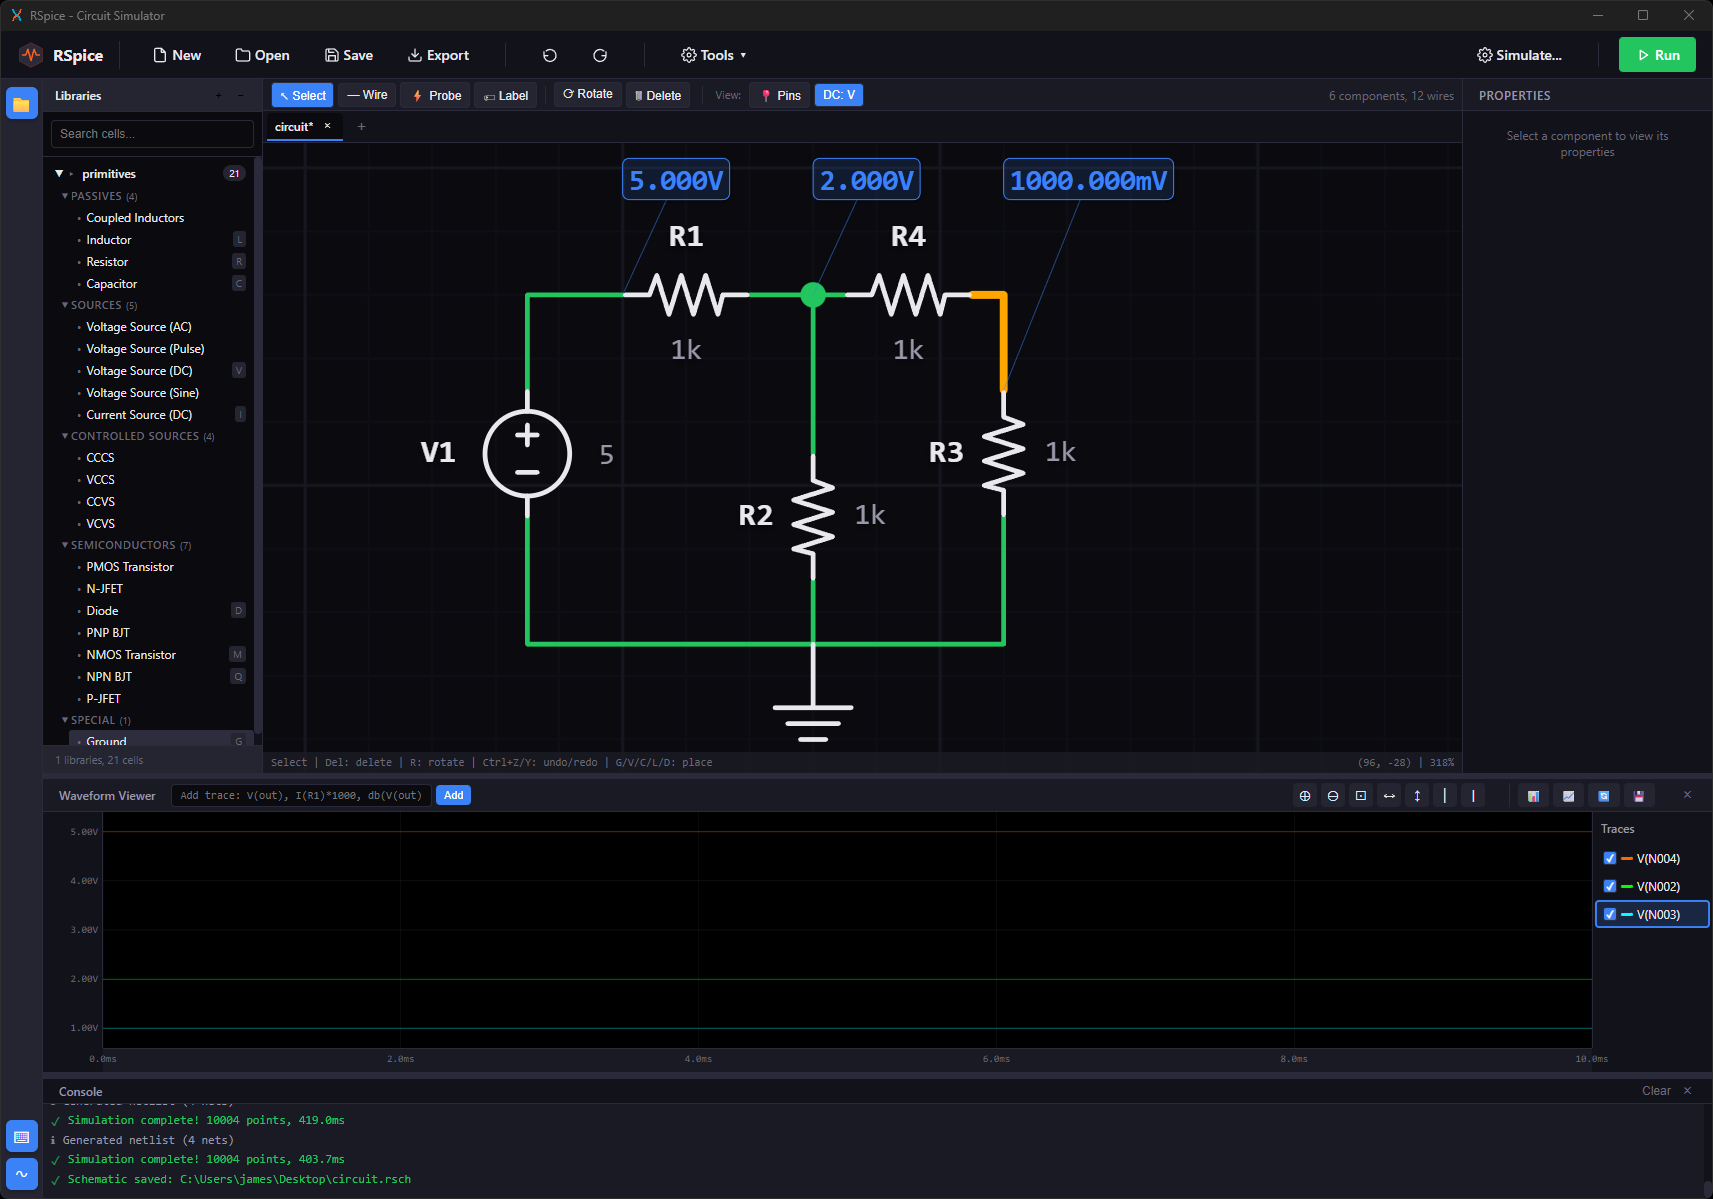
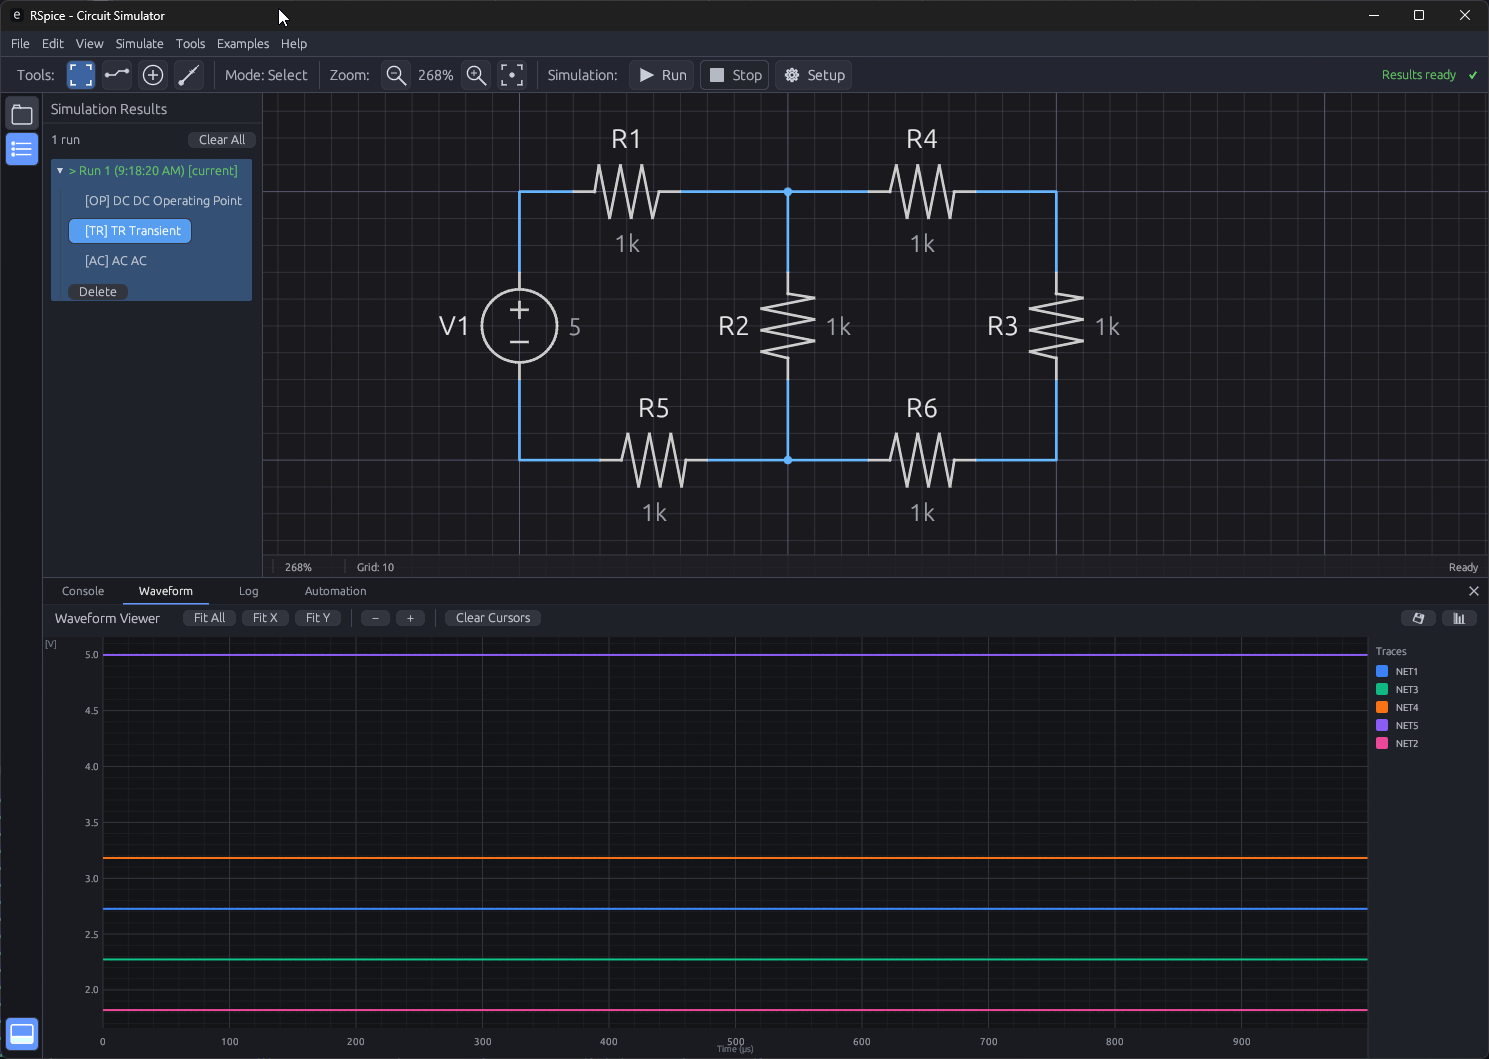
chore: update project configuration, README, and assets

Changed region(s): [[0.0, 0.0, 1.0, 0.9972], [0.9268, 0.4986, 1.0, 0.5921], [0.9886, 0.4051, 1.0, 0.4363]]

diff --git a/README.md b/README.md
@@ -20,7 +20,22 @@
 
 </div>
 
+
 ---
+
+## Table of Contents
+- [Overview](#overview)
+- [Why RSpice?](#why-rspice)
+- [Capabilities](#capabilities)
+- [RSpice Studio](#rspice-studio)
+- [Installation](#installation)
+- [Usage](#usage)
+- [Roadmap](#roadmap)
+- [Community](#community)
+- [License](#license)
+
+---
+
 
 ## Overview
 
@@ -37,7 +52,7 @@ Bridging the gap between academic tools and commercial EDA, RSpice features a **
 
 ### 🎯 **Precision & Reliability**
 *   **Adaptive Stepping**: Advanced Gear/Trapezoidal integration with dynamic local truncation error (LTE) control.
-*   **Robust Convergence**: Homotopy methods (Gmin, Source Stepping) and pseudo-transient continuation for difficult operating points.
+*   **Robust Convergence**: Tiered solver strategy featuring **Enhanced Newton-Raphson**, **Arc-Length Continuation**, and Homotopy methods (Gmin, Source Stepping) for absolute convergence stability.
 *   **Measurement Engine**: Built-in support for complex `.MEAS` statements including `RISE`, `FALL`, `DELAY`, `INTEG`, `RMS`, and `FIND...WHEN` conditional extractions.
 
 ### 🔌 **Extensible Architecture**
@@ -57,11 +72,13 @@ Bridging the gap between academic tools and commercial EDA, RSpice features a **
 | | **Envelope** | Multi-rate envelope transient for modulated signals |
 | **Freq** | **AC Small-Signal** | Frequency domain response |
 | | **Harmonic Balance** | Nonlinear steady-state solution for RF circuits |
+| | **PAC** | Periodic AC small-signal analysis |
 | | **PNoise** | Phase noise and cyclostationary noise analysis |
+| | **PXF** | Periodic Transfer Function analysis |
 | | **Noise** | Thermal, Shot, and Flicker (1/f) noise summary |
 | | **S-Parameter** | N-port network scattering parameters |
 | | **STB** | Loop gain and stability analysis |
-| | **Transfer Function** | Transfer function computation |
+| | **XF (Transfer)** | Small-signal transfer function computation |
 | **Param** | **DC Sweep** | Nested voltage/current/parameter sweeps |
 | | **Temperature** | Temperature sweep analysis |
 | | **Monte Carlo** | Statistical yield verification with histogram & 3-sigma |
@@ -89,7 +106,7 @@ The visual interface is designed for the modern engineer:
 
 *   **GPU Rendering**: Powered by **WebGPU** and **`wgpu`**, rendering massive waveforms and complex schematics at a fluid 60FPS.
 *   **Cross-Probing**: Interactive linking between schematic nodes and waveform traces.
-*   **Virtuoso-Style Hierarchy**: Professional Library/Cell/View management for complex design reuse.
+*   **Virtuoso-Style Hierarchy**: Full **Library/Cell/View (LCV)** commercial registry for hierarchical design management and PDK integration.
 *   **Format Support**: Import/Export standard formats including Touchstone (`.s2p`), CSV, and **LTspice® RAW**.
 
 ---
@@ -106,9 +123,31 @@ RSpice is optimized for modern instruction sets. For maximum performance:
 git clone https://github.com/rspice/rspice.git
 cd rspice
 
+```bash
 # Build with native CPU optimizations (AVX/SSE)
 RUSTFLAGS="-C target-cpu=native" cargo build --release
 ```
+
+## Quick Start
+
+Create a simple netlist `rc_circuit.sp`:
+
+```spice
+* Simple RC Circuit
+V1 1 0 PULSE(0 5 0 1n 1n 1u 2u)
+R1 1 2 1k
+C1 2 0 1n
+
+.TRAN 10n 5u
+.MEAS TRAN risetime TRIG V(2) VAL=0.5 RISE=1 TARG V(2) VAL=4.5 RISE=1
+```
+
+Run the simulation:
+
+```bash
+cargo run -p rspice-cli --release -- run rc_circuit.sp
+```
+
 
 ## Usage
 
@@ -160,6 +199,18 @@ We are consistently pushing the boundaries of open-source EDA:
 
 *   [x] **Advanced RF**: Harmonic Balance, PSS, & PNoise.
 *   [x] **Measurement Engine**: Automated extraction of circuit metrics.
+*   [ ] **Heterogeneous Simulation**: Mixed-signal co-simulation with external digital solvers.
+*   [ ] **Python Bindings**: PyO3-based scripting interface for data post-processing.
+
+## Community
+
+Join the revolution in open analog verification:
+
+*   **Discord**: [Join the RSpice Server](https://discord.gg/rspice) - Chat with the developers.
+*   **Discussion**: [GitHub Discussions](https://github.com/rspice/rspice/discussions) - Q&A and feature requests.
+*   **Contribute**: Read our [Contribution Guide](CONTRIBUTING.md) to get started.
+
+
 
 ## License
 
